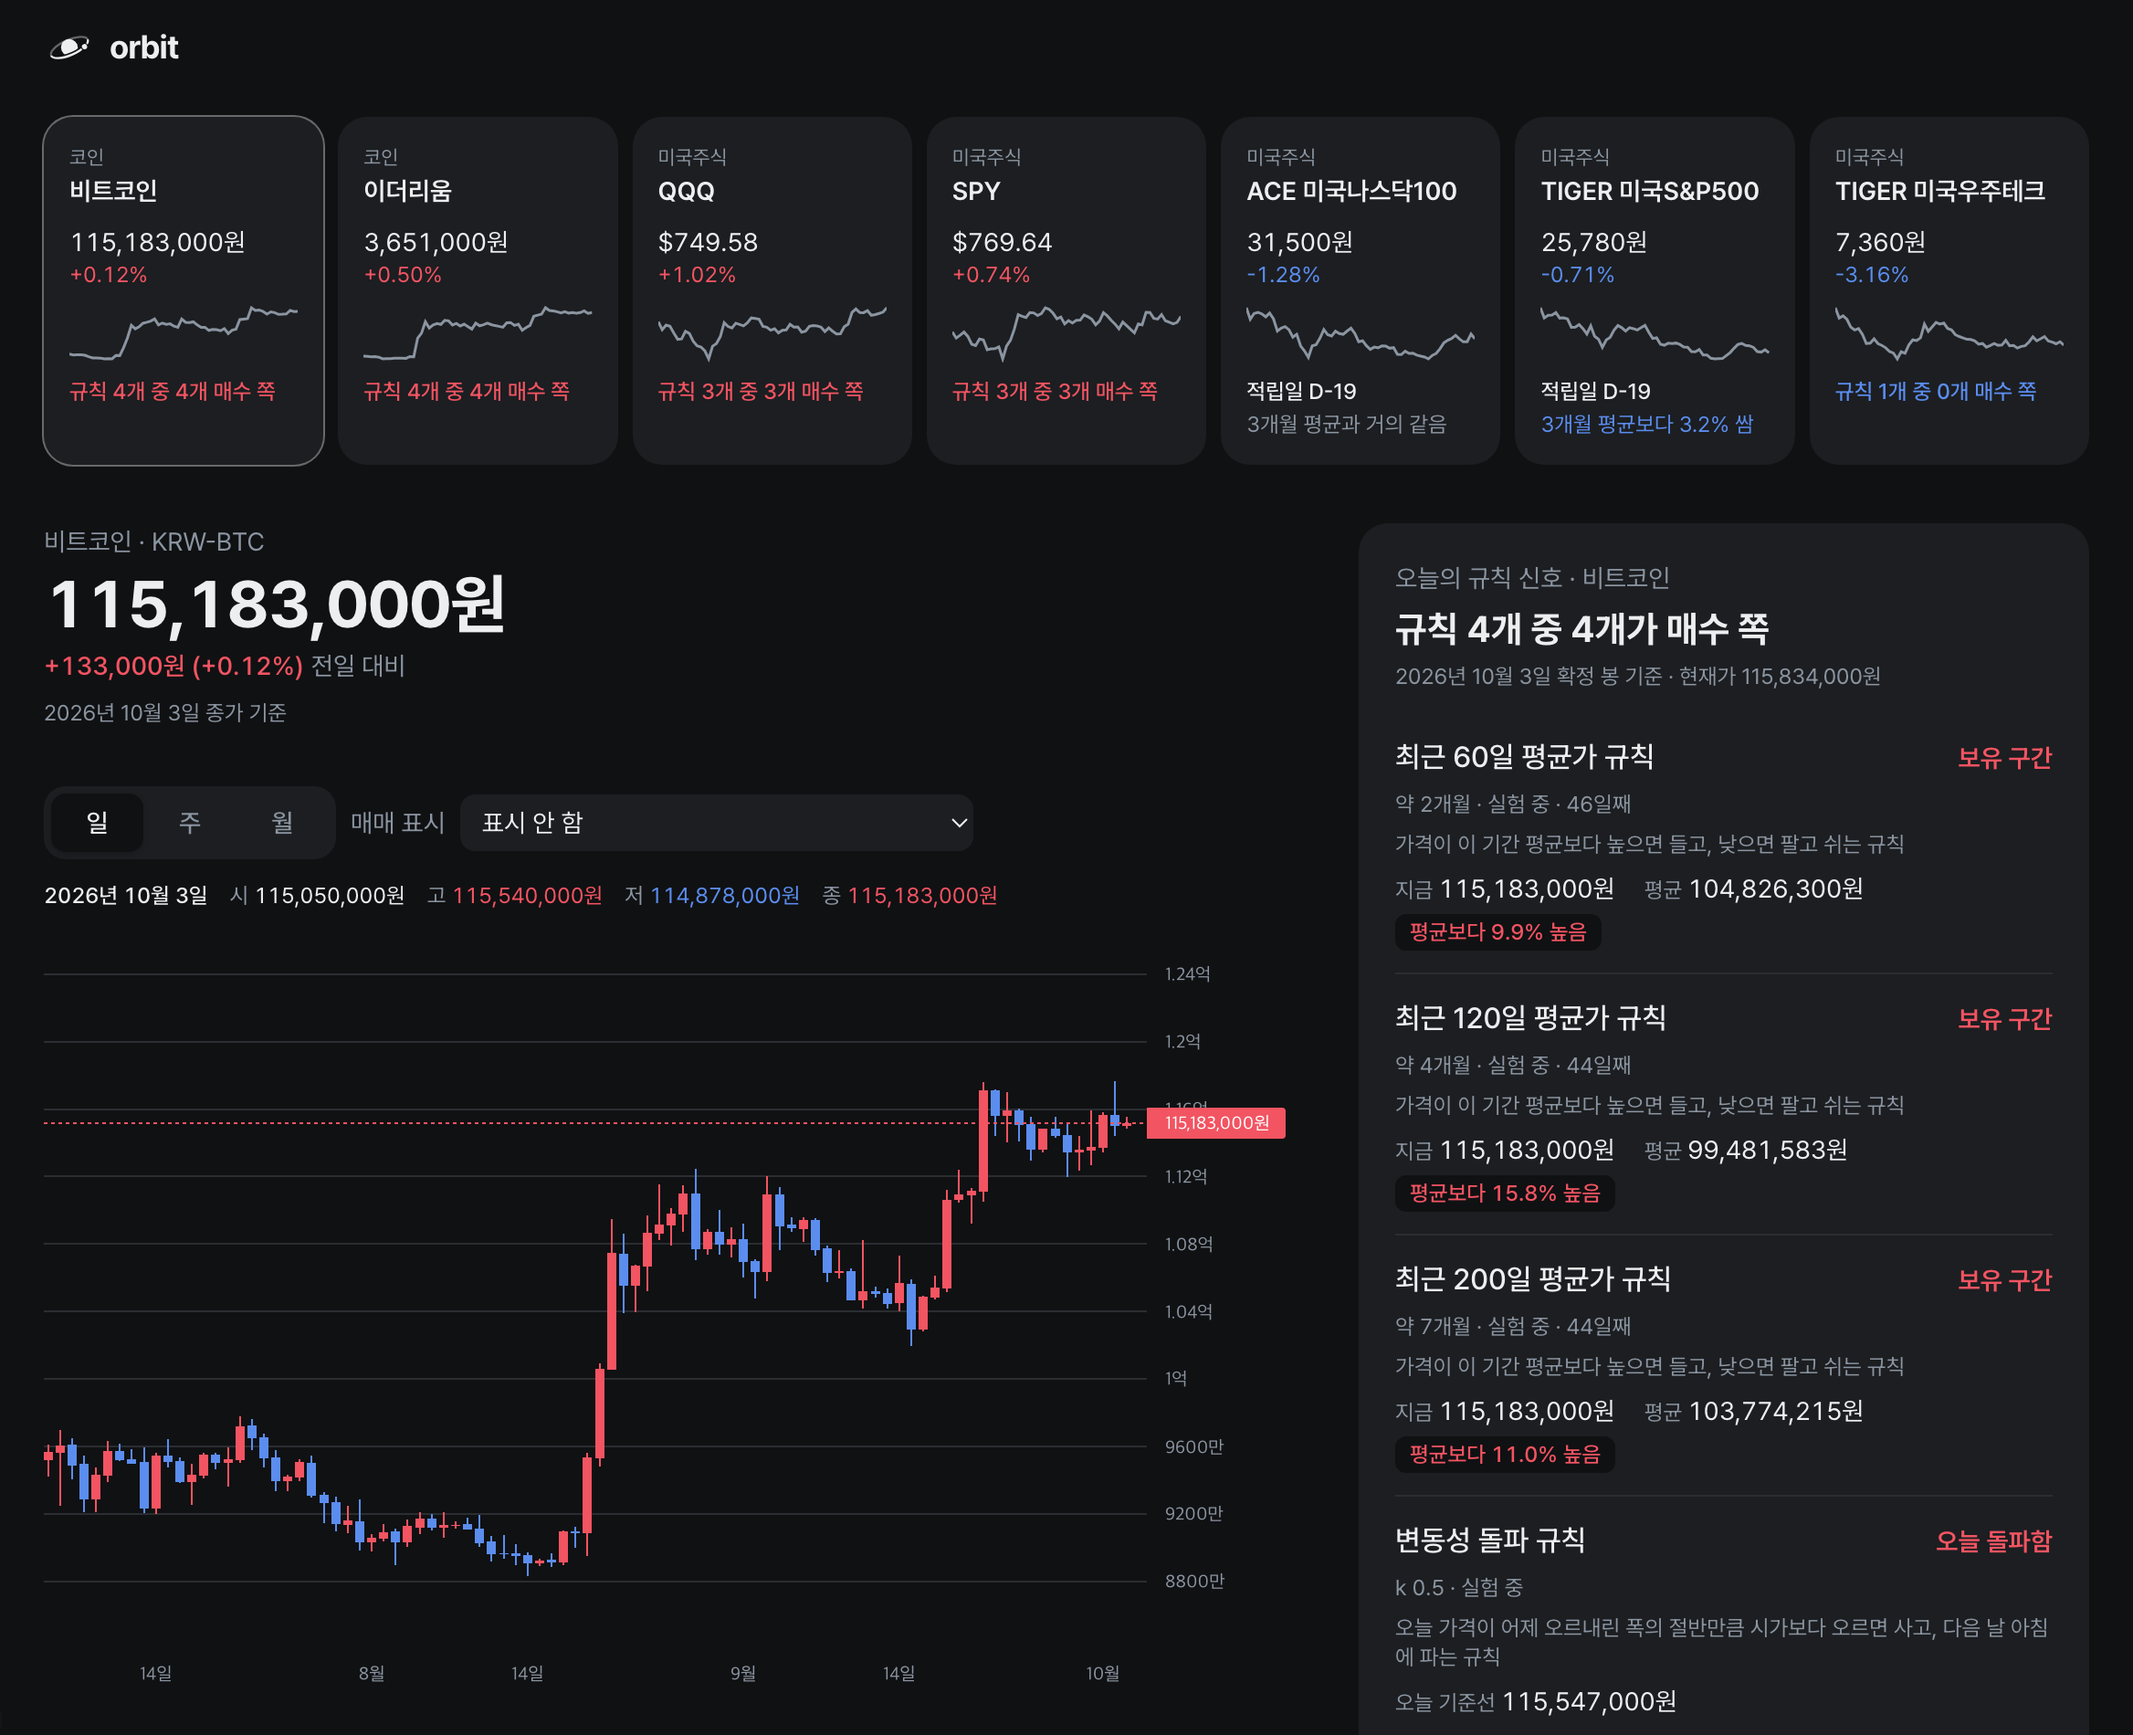
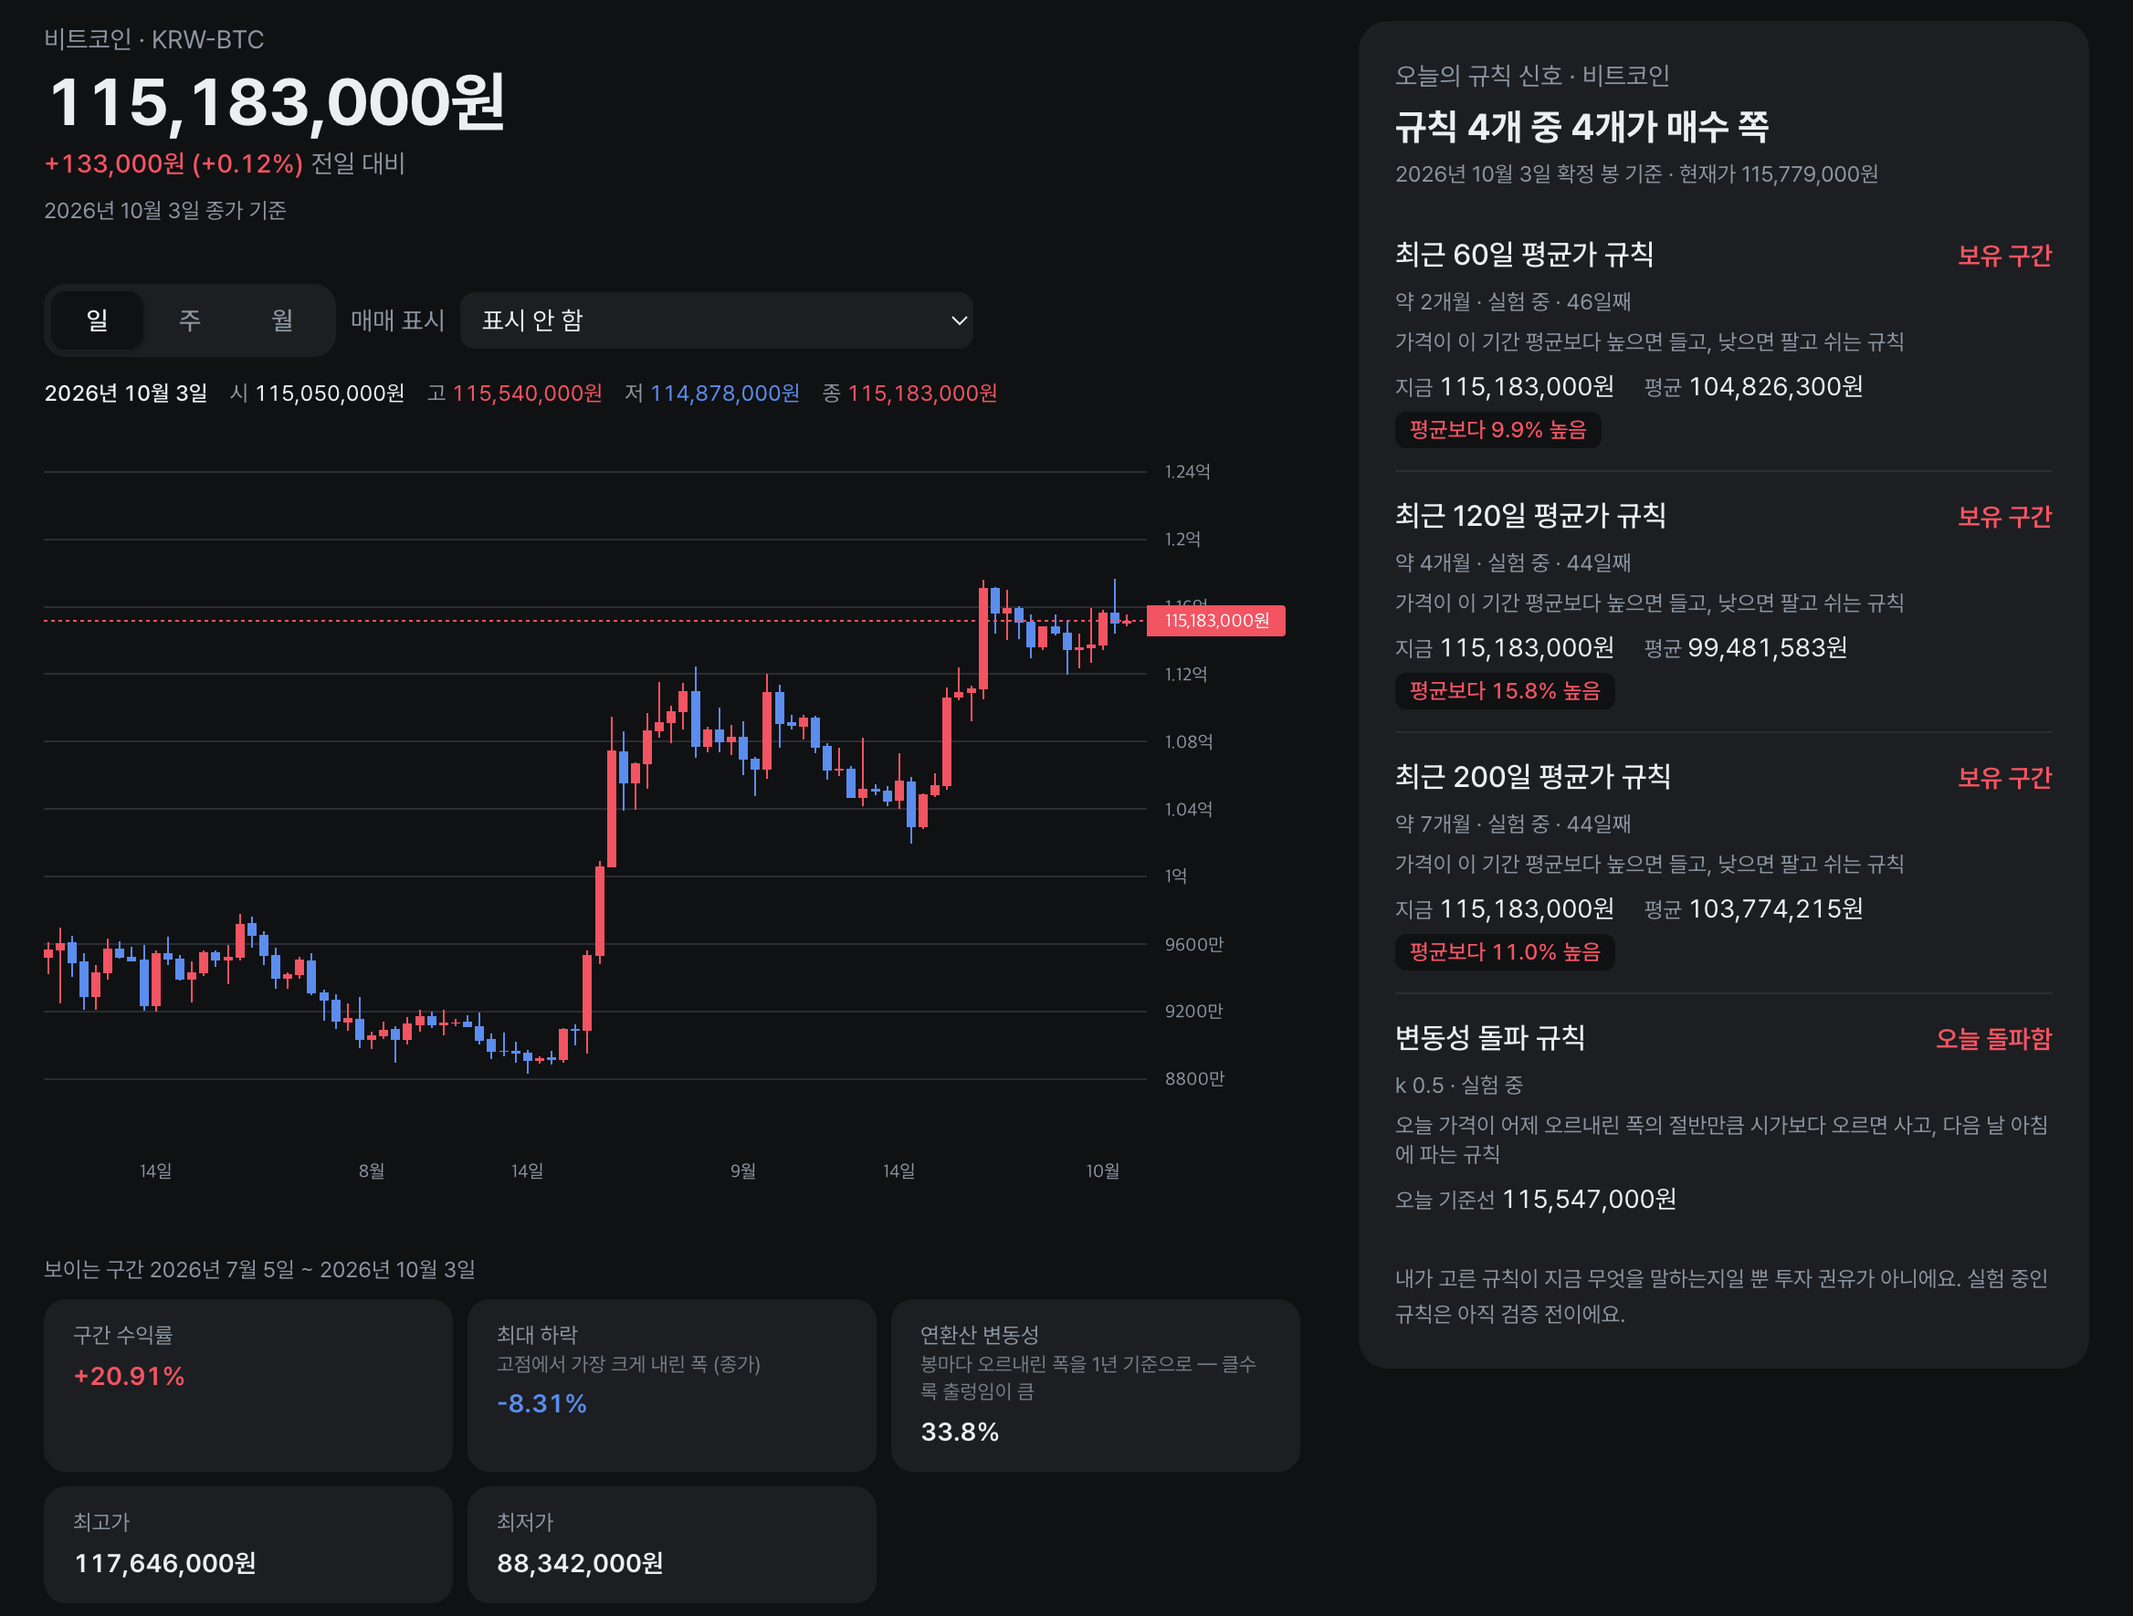
docs(repo): 공개 문서·캡처에서 토스증권 데이터 제외
- 토스증권 Open API 정책상 받은 정보는 본인 매매 목적만, 비상업이어도 제3자 배포 금지 — 공개 레포의 캡처·결과 숫자도 해당
- README 대표 화면은 코인 차트·신호만, 두 번째 화면은 비트코인 규칙 검증 카드로. 다음 개장 카드 캡처 제거
- 규칙 문서에서 미국주식·국내 ETF 결과 숫자를 빼고 방법·해석만
- 재발 방지: 공개 레포 규칙에 토스 데이터 배포 금지와 새 데이터 출처의 약관 확인을 추가

diff --git a/README.md b/README.md
@@ -4,7 +4,7 @@
 
 비트코인·이더리움과 미국 주식·국내 상장 미국 ETF 를 같은 화면에서 보고, 각 규칙이 지금 무엇을 말하는지·과거에 어땠는지를 숫자로 확인한다.
 
-![비트코인 — 종목 타일, 일봉 차트, 오늘의 규칙 신호](docs/assets/dashboard-btc.png)
+![비트코인 — 일봉 차트와 오늘의 규칙 신호](docs/assets/dashboard-btc.png)
 
 > **투자 권유가 아니다.** 화면의 신호는 사용자가 고른 규칙이 말하는 상태일 뿐이고, 백테스트는 과거 데이터로 돌린 결과다. 코드는 있는 그대로 제공되며 사용에 따른 손실 책임은 사용자에게 있다.
 
@@ -18,9 +18,11 @@
 - **백테스트** — 단순 보유·적립식 기준선과 이동평균·변동성 돌파 규칙을 같은 조건으로 비교·기록. 미국주식은 토스증권 수수료로
 - **규칙 검증** — 기간을 반으로 나눠도, 숫자를 바꿔도(40~240일선) 결과가 유지되는지. 앞 절반에서 고른 값이 뒤 절반에서도 통했는지
 
-국내 장이 닫힌 뒤에도 미국장은 움직인다. 국내 상장 미국 ETF 는 미국 쪽 등락과 환율로 다음 개장가를 미리 가늠하고, 구성 종목별로 무엇이 움직였는지 보여준다:
+좋은 백테스트 결과가 특정 기간·특정 숫자 덕분인지 확인한다. 기간을 반으로 나누고, 이동평균 기간과 변동성 돌파 k 를 바꿔 가며 같은 조건으로 비교한다:
 
-<img src="docs/assets/next-open.png" alt="TIGER 미국우주테크 — 다음 개장 예상과 구성 종목 등락" width="420" />
+<img src="docs/assets/rule-check.png" alt="비트코인 규칙 검증 — 기간 분리와 파라미터 민감도" width="560" />
+
+> 화면 캡처와 문서의 결과 숫자는 업비트 코인만 싣는다. 미국주식·국내 ETF 는 토스증권 Open API 데이터라 제3자 배포가 금지돼 로컬 대시보드에서만 본다.
 
 | 자산 | 종목 | 시세 |
 |---|---|---|

diff --git a/docs/knowledge/toss-open-api.md b/docs/knowledge/toss-open-api.md
@@ -17,6 +17,14 @@
 
 엔진은 아래 조회 경로만 부를 수 있게 막아 둠: 캔들, 현재가, 종목 정보, 환율, 국내·미국 장 캘린더
 
+## 데이터 이용 정책 — 공개 배포 금지
+
+> 출처: [openapi-docs/faq.md](https://openapi.tossinvest.com/openapi-docs/faq.md) "데이터 이용 정책" · 확인일 2026-10-04
+
+- API 로 받은 정보는 **투자자 본인의 매매 목적에 한해** 이용. 상업적 이용은 물론 **비상업적이어도 제3자 배포 금지**
+- orbit 에서는: 로컬 대시보드(본인)만 OK. 공개 사이트·README 캡처·문서·PR·이슈에 토스 시세와 그걸로 계산한 결과 숫자를 싣지 않음
+- 그래서 GitHub Pages 같은 공개 배포에는 토스 데이터를 쓰지 않음 (허용 IP 가 필요해 Actions 에서 호출도 안 됨)
+
 ## 안전 — 키 하나로 주문까지 가능
 
 - **조회 전용 키가 없다.** 같은 키에 계좌 헤더(`X-Tossinvest-Account`)를 붙이면 주문·잔고 API 가 열린다
